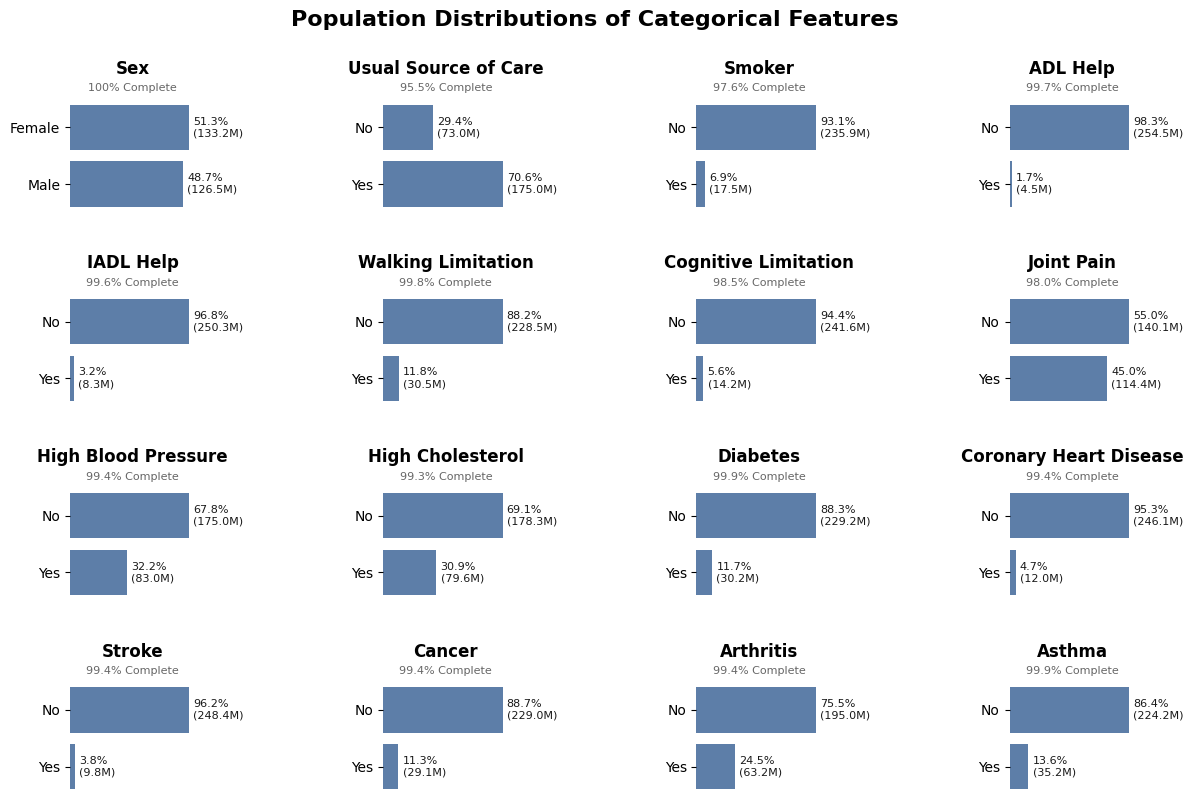
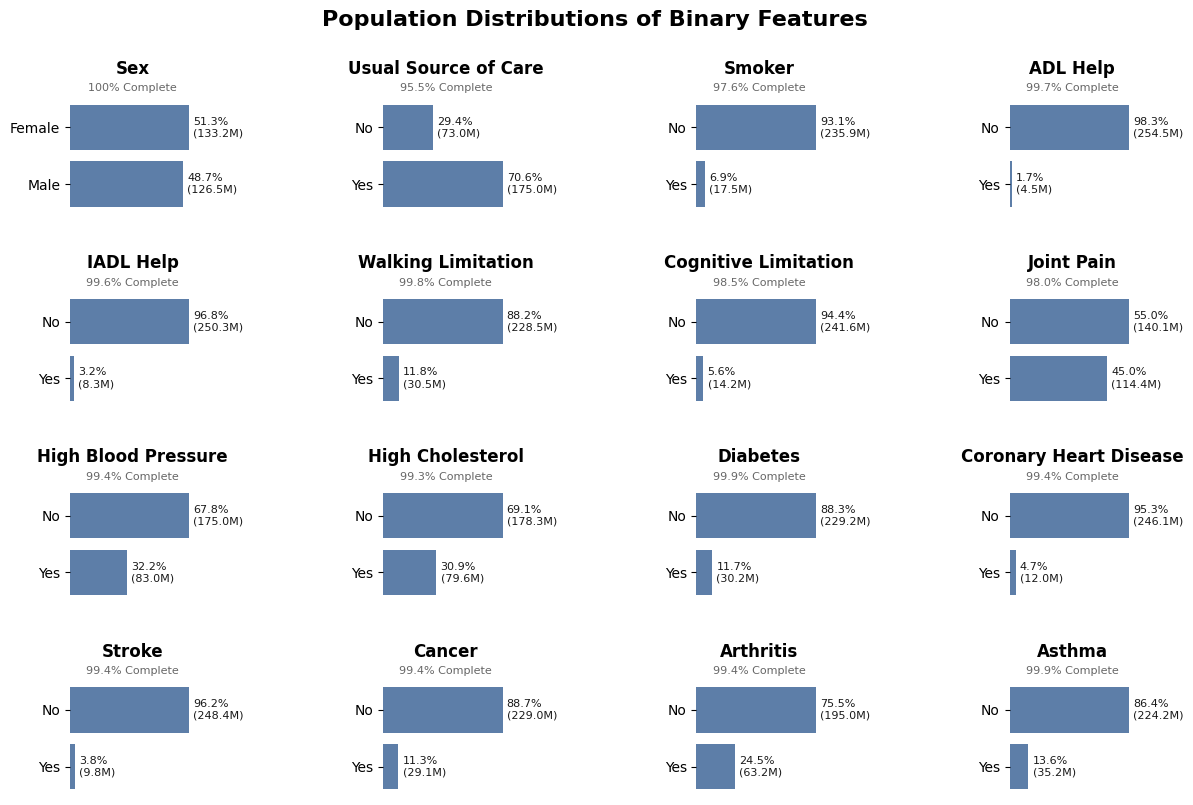
fix(eda): fix title of matrix plot for binary distributions

Changed region(s): [[0.2481, 0.0, 0.7443, 0.0311]]

diff --git a/notebooks/medical_cost_prediction.py b/notebooks/medical_cost_prediction.py
@@ -1303,7 +1303,7 @@ def plot_binary_distributions(df, binary_features, display_labels=None, categori
         axes_flat[j].axis("off")  
 
     # Customize bar plot matrix
-    fig.suptitle(f"{'Population' if weights else 'Sample'} Distributions of Categorical Features", fontsize=16, fontweight="bold", y=1)
+    fig.suptitle(f"{'Population' if weights else 'Sample'} Distributions of Binary Features", fontsize=16, fontweight="bold", y=1)
     fig.tight_layout(h_pad=3.0, w_pad=8.0)  # Adjusts layout to prevent overlapping subplots
     
     # Show bar plot matrix
